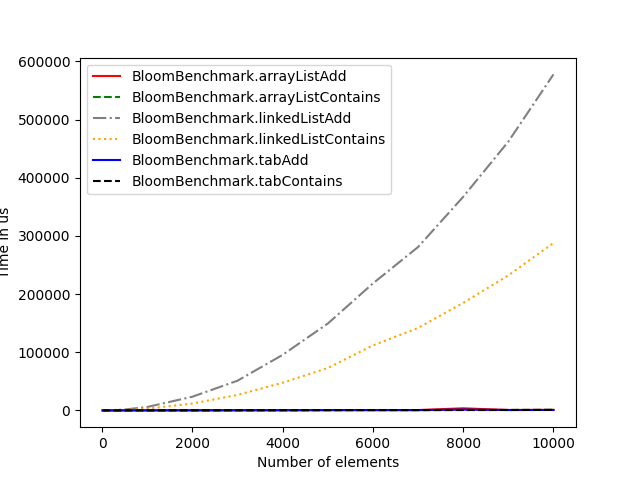
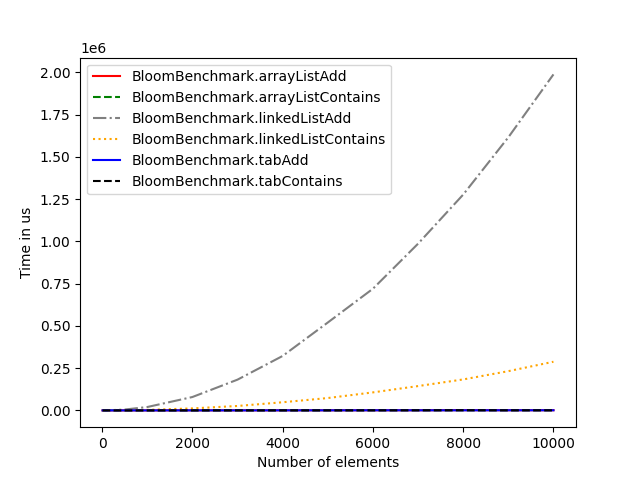
Now using boolean table + multiple hashes

diff --git a/bloom_filter/src/main/java/fr/redover/BloomFilter.java b/bloom_filter/src/main/java/fr/redover/BloomFilter.java
@@ -29,8 +29,10 @@ public class BloomFilter {
      */
     public void add(String word) {
         int[] hash = Hash.hash(word, hashFunctions, size);
-        storage.set(hash[0], 1);
-        storage.set(hash[1], 1);
+
+        for (int i = 0; i < hashFunctions; i++) {
+            storage.set(hash[i], true);
+        }
     }
 
     /**
@@ -40,7 +42,14 @@ public class BloomFilter {
      */
     public boolean contains(String word) {
         int[] hash = Hash.hash(word, hashFunctions, size);
-        return storage.get(hash[0]) == 1 && storage.get(hash[1]) == 1;
+
+        for (int i = 0; i < hashFunctions; i++) {
+            if (!storage.get(hash[i])) {
+                return false;
+            }
+        }
+
+        return true;
     }
 
     /**

diff --git a/bloom_filter/src/main/java/fr/redover/StorageLinkedList.java b/bloom_filter/src/main/java/fr/redover/StorageLinkedList.java
@@ -6,20 +6,20 @@ import java.util.LinkedList;
  * StorageLinkedList class, uses LinkedList to store data
  */
 public class StorageLinkedList implements IStorage {
-    private final LinkedList<Integer> storage;
+    private final LinkedList<Boolean> storage;
 
     public StorageLinkedList(int size) {
         storage = new LinkedList<>();
         for (int i = 0; i < size; i++) {
-            storage.add(0);
+            storage.add(false);
         }
     }
 
-    public void set(int index, int value) {
+    public void set(int index, boolean value) {
         storage.set(index, value);
     }
 
-    public int get(int index) {
+    public boolean get(int index) {
         return storage.get(index);
     }
 }

diff --git a/bloom_filter/src/main/java/fr/redover/StorageArrayList.java b/bloom_filter/src/main/java/fr/redover/StorageArrayList.java
@@ -6,20 +6,20 @@ import java.util.ArrayList;
  * StorageArrayList class, uses ArrayList to store data
  */
 public class StorageArrayList implements IStorage {
-    private final ArrayList<Integer> storage;
+    private final ArrayList<Boolean> storage;
 
     public StorageArrayList(int size) {
         storage = new ArrayList<>(size);
         for (int i = 0; i < size; i++) {
-            storage.add(0);
+            storage.add(false);
         }
     }
 
-    public void set(int index, int value) {
+    public void set(int index, boolean value) {
         storage.set(index, value);
     }
 
-    public int get(int index) {
+    public boolean get(int index) {
         return storage.get(index);
     }
 }

diff --git a/bloom_filter/src/main/java/fr/redover/StorageTab.java b/bloom_filter/src/main/java/fr/redover/StorageTab.java
@@ -4,17 +4,17 @@ package fr.redover;
  * StorageTab class, uses a tab to store data
  */
 public class StorageTab implements IStorage {
-    private final int[] storage;
+    private final boolean[] storage;
 
     public StorageTab(int size) {
-        storage = new int[size];
+        storage = new boolean[size];
     }
 
-    public void set(int index, int value) {
+    public void set(int index, boolean value) {
         storage[index] = value;
     }
 
-    public int get(int index) {
+    public boolean get(int index) {
         return storage[index];
     }
 }

diff --git a/bloom_filter/src/main/java/fr/redover/IStorage.java b/bloom_filter/src/main/java/fr/redover/IStorage.java
@@ -9,12 +9,12 @@ public interface IStorage {
      * @param index Index to set
      * @param value Value to set
      */
-    void set(int index, int value);
+    void set(int index, boolean value);
 
     /**
      * Get a value at a specific index
      * @param index Index to get
      * @return Value at index
      */
-    int get(int index);
+    boolean get(int index);
 }

diff --git a/README.md b/README.md
@@ -13,12 +13,12 @@ To test the performance of the Bloom Filter, I used a Benchark class. The benchm
 ## Results
 ![bench1](img/bench1.png)  
 ```
-BloomBenchmark.arrayListAdd              7000  avgt    5     409,776 ±    396,579  us/op
-BloomBenchmark.arrayListContains         7000  avgt    5     393,195 ±    302,983  us/op
-BloomBenchmark.linkedListAdd             7000  avgt    5  279928,060 ±  11075,822  us/op
-BloomBenchmark.linkedListContains        7000  avgt    5  140827,180 ±   5994,355  us/op
-BloomBenchmark.tabAdd                    7000  avgt    5     493,989 ±   1454,171  us/op
-BloomBenchmark.tabContains               7000  avgt    5     379,203 ±    256,367  us/op
+BloomBenchmark.arrayListAdd              9000  avgt    5     655,910 ±    254,645  us/op
+BloomBenchmark.arrayListContains         9000  avgt    5     571,083 ±    432,155  us/op
+BloomBenchmark.linkedListAdd             9000  avgt    5  697121,060 ±  18423,286  us/op
+BloomBenchmark.linkedListContains        9000  avgt    5  233350,860 ±   5442,844  us/op
+BloomBenchmark.tabAdd                    9000  avgt    5     531,194 ±    287,208  us/op
+BloomBenchmark.tabContains               9000  avgt    5     570,148 ±    346,933  us/op
 ```
 Here is the result of the benchmark with larger and larger number of elements. We can see that the arrayList is the slowest storage type, with a complexity that seems exponential, while the ArrayList and table storage types seems to have a linear complexity. There is already a function to calculate the optimal size of the Bloom Filter. It is calculated as 
 ```java
@@ -29,18 +29,18 @@ where `n` is the number of elements to add to the Bloom Filter and `desiredFalse
 ----
 ![bench2](img/bench2.png)  
 ```
-BloomBenchmark.arrayListAdd              7000  avgt    5     613,887 ±   440,327  us/op
-BloomBenchmark.arrayListContains         7000  avgt    5     540,762 ±   415,092  us/op
-BloomBenchmark.linkedListAdd             7000  avgt    5  280871,820 ±  5605,365  us/op
-BloomBenchmark.linkedListContains        7000  avgt    5  141705,320 ±  2929,759  us/op
-BloomBenchmark.tabAdd                    7000  avgt    5     522,676 ±   409,755  us/op
-BloomBenchmark.tabContains               7000  avgt    5     527,860 ±   352,732  us/op
+BloomBenchmark.arrayListAdd              9000  avgt    5      886,423 ±    425,173  us/op
+BloomBenchmark.arrayListContains         9000  avgt    5      681,259 ±    460,200  us/op
+BloomBenchmark.linkedListAdd             9000  avgt    5  1615438,400 ±  58709,780  us/op
+BloomBenchmark.linkedListContains        9000  avgt    5   232086,700 ±   7726,322  us/op
+BloomBenchmark.tabAdd                    9000  avgt    5      726,128 ±    512,226  us/op
+BloomBenchmark.tabContains               9000  avgt    5      681,557 ±    530,257  us/op
 ```
 I then added a function to calculate the optimal number of hashes as per wikipedia (https://en.wikipedia.org/wiki/Bloom_filter#Optimal_number_of_hash_functions). The optimal number of hashes is calculated as
 ```java
 Math.ceil((m / n) * Math.log(2.0))
 ```
-where `m` is the size of the Bloom Filter and `n` is the number of elements to add to it. I then ran the benchmark again with the optimal number of hashes. We can see that the difference is not very significant, it is within the error margin.
+where `m` is the size of the Bloom Filter and `n` is the number of elements to add to it. I then ran the benchmark again with the optimal number of hashes. We can see that the difference is not very significant, it is within the error margin. The only exception is the linkedList contain, which seems to increase in complexity a lot slower than before.
 
 
 ## Why does the results differ
